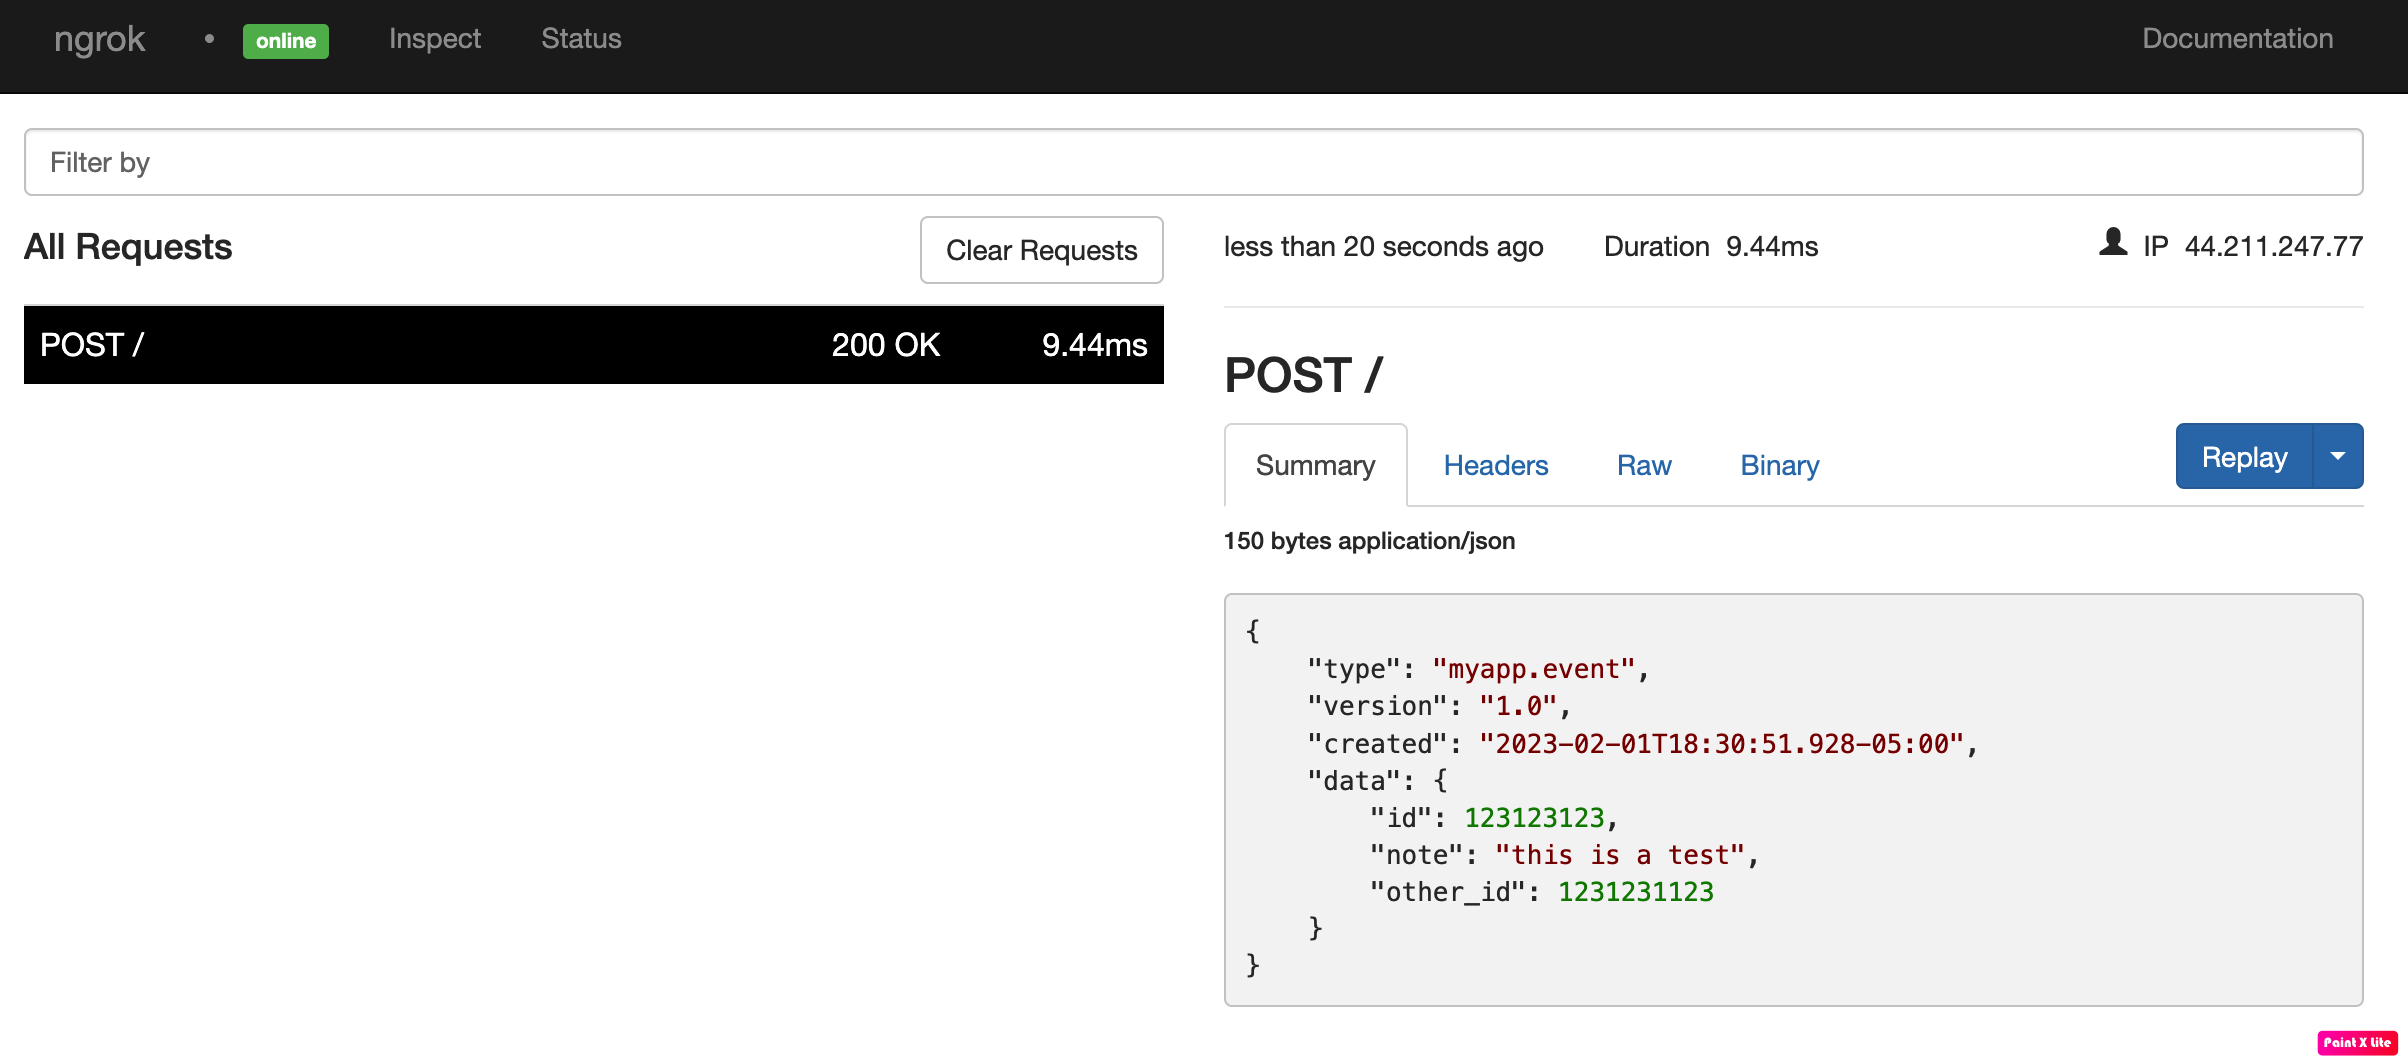
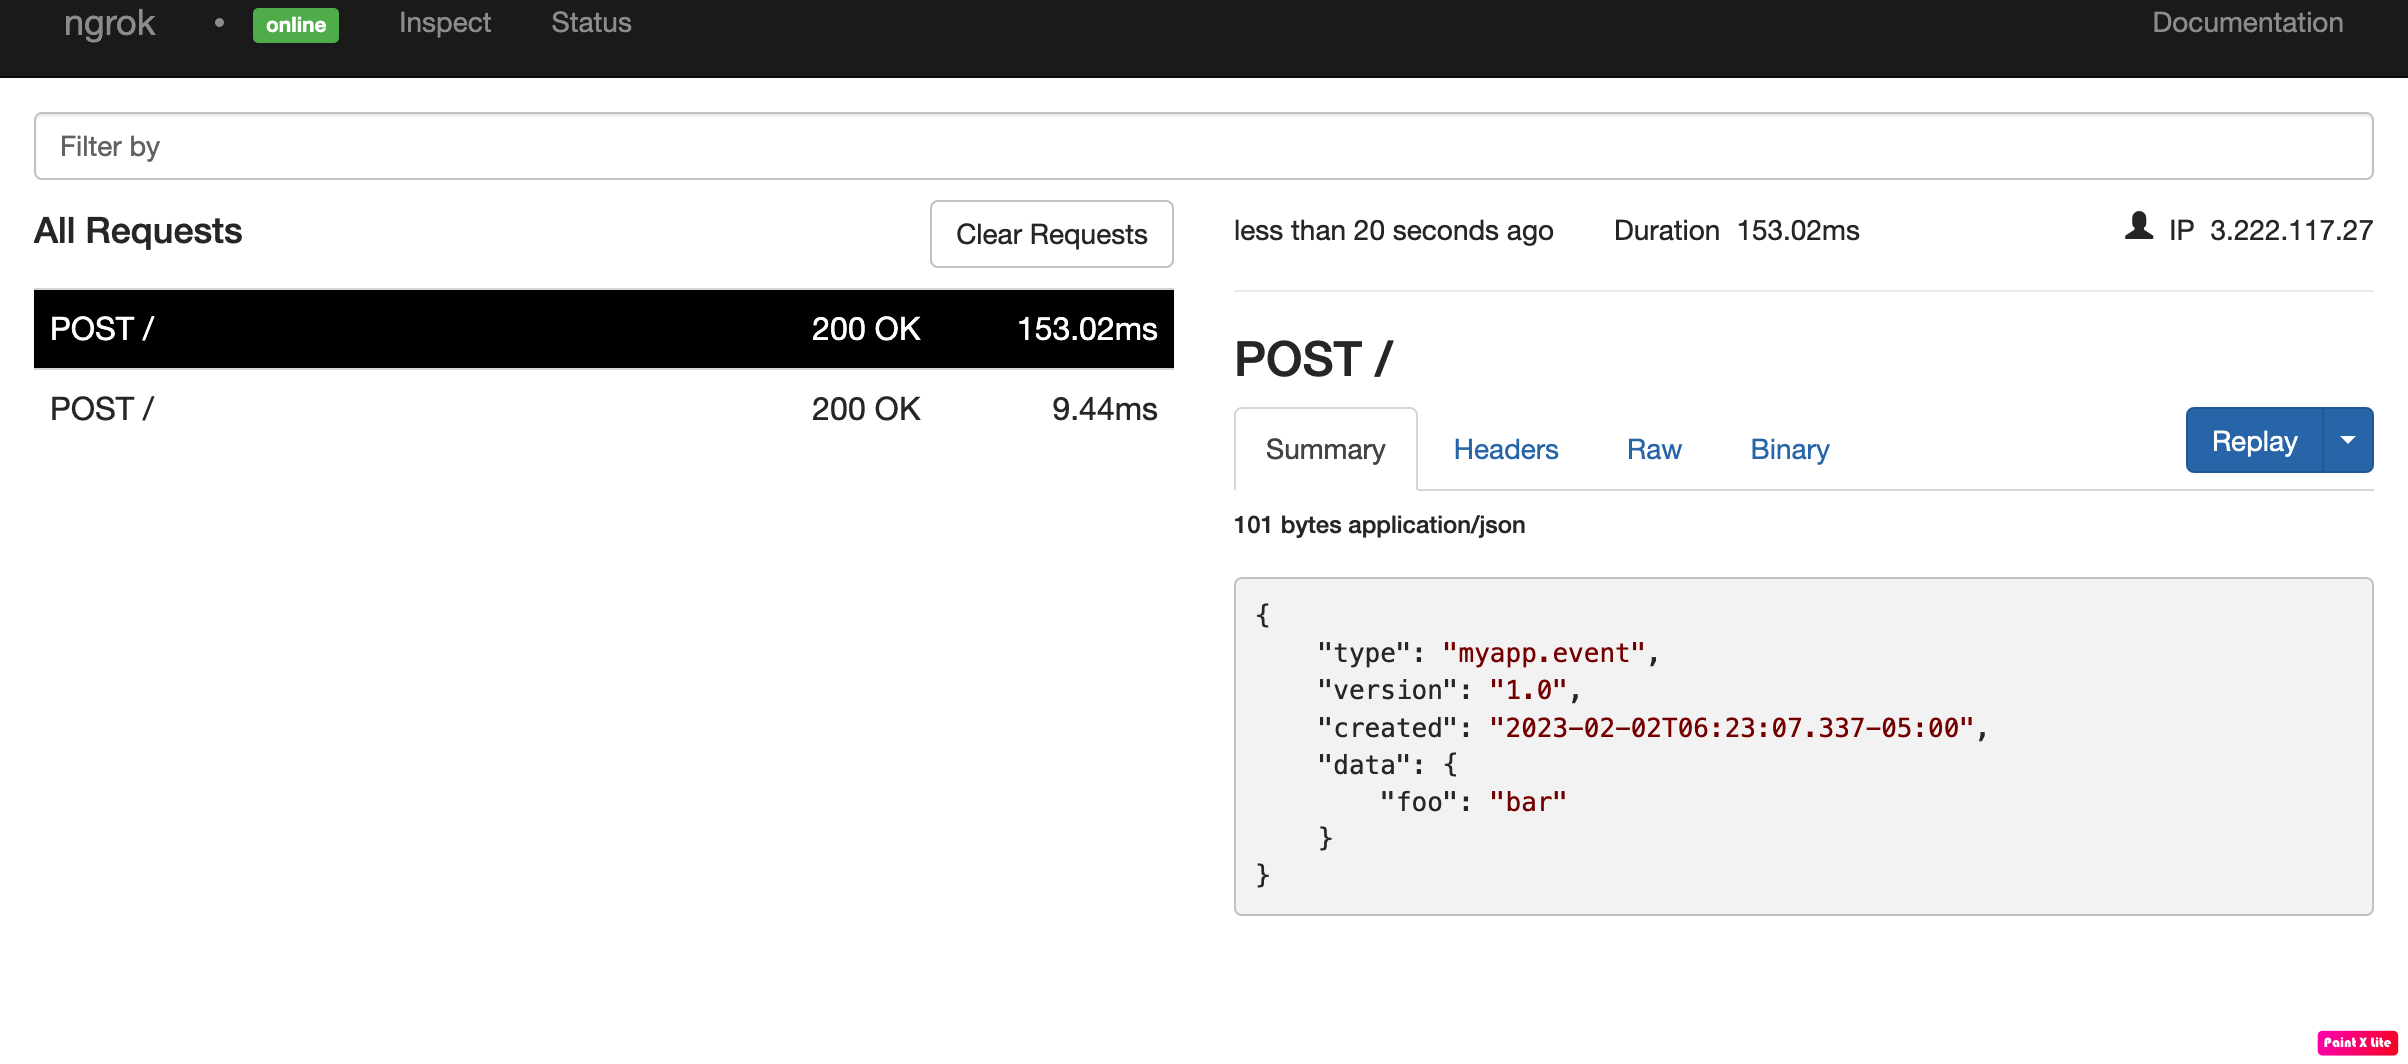
After Grammarly

diff --git a/sidebars.js b/sidebars.js
@@ -78,6 +78,7 @@ const sidebars = {
         { label: 'GitHub', type: 'doc', id: 'integrations/github/webhooks', },
         { label: 'GitLab', type: 'doc', id: 'integrations/gitlab/webhooks', },
         { label: 'Heroku', type: 'doc', id: 'integrations/heroku/webhooks', },
+        { label: 'HostedHooks', type: 'doc', id: 'integrations/hostedhooks/webhooks', },
         { label: 'HubSpot', type: 'doc', id: 'integrations/hubspot/webhooks', },
         { label: 'Hygraph', type: 'doc', id: 'integrations/hygraph/webhooks', },
         { label: 'Instagram', type: 'doc', id: 'integrations/instagram/webhooks', },

diff --git a/docs/integrations/hostedhooks/webhooks.md b/docs/integrations/hostedhooks/webhooks.md
@@ -78,7 +78,7 @@ To register a webhook on your HostedHooks account follow the instructions below:
 
 1. On the **Setup Your Application** page, enter `My App` in the **App Name** field and then click **Save App**.
 
-1. On the app page, click **Create Your Webhook Event** (Step 1), enter `myapp.event` in the **Event Type** field, and then click **Savve Webhook Event**.
+1. On the app page, click **Create Your Webhook Event** (Step 1), enter `myapp.event` in the **Event Type** field, and then click **Save Webhook Event**.
 
 1. On the app page, click **Create your first Subscriber** (Step 2), enter `My Localhost App` in the **Subscription Name** field, and then click **Save Subscription**.
 
@@ -91,48 +91,43 @@ To register a webhook on your HostedHooks account follow the instructions below:
 
 1. Click the left arrow to go back to the app page and then click **Subscribe to a webhook event** (Step 4).
 
-1. On the **Details** page, select **myapp.event** in the **Subscribed Events** combobox and then click **Add Event**.
+1. On the **Details** page, select **myapp.event** in the **Subscribed Events** selector and then click **Add Event**.
 
 1. Click the left arrow twice to go back to the app page and then click **Send a test webhook message**.
 
     Confirm your localhost app receives the **myapp.event** event notification and logs both headers and body in the terminal.
 
 
-### Run Webhooks with HostedHooks and ngrok
+### Run Webhooks with HostedHooks and ngrok {#run-webhook}
 
-Whenever you post a message to HostedHooks message endpoint passing the **myapp.event** event type inside the body of the request, HostedHooks routes this message to your localhost app through your ngrok URL.
+Whenever you post a message to HostedHooks message endpoint using the value **myapp.event** as the event type inside the body of the request, HostedHooks routes this message to your localhost app through your ngrok URL.
 You can trigger new calls from HostedHooks to your application by following the instructions below.
 
 1. Open a terminal window and run the following command:
     ```bash
     curl --request POST --url https://hostedhooks.com/api/v1/apps/APP_ID/messages
  \
-    --header 'Authorization: Bearer TOKEN' \
+    --header 'Authorization: Bearer API_KEY' \
     --header 'Content-Type: application/json' --data '{
-
+        "data": {
+            "foo": "bar"
+        },
+        "event_type": "myapp.event",
+        "version": "1.0",
+        "event_id": "00001"
     }'
     ```
-    **Note**: Replace the following with values copied on previous steps:
-    - URL: the URL provided by the ngrok agent to expose your application to the internet (i.e. `https://1a2b-3c4d-5e6f-7g8h-9i0j.sa.ngrok.io`).
-    - TOKEN: the Calendly token.
-    - ORGANIZATION_URL: The **current_organization** field you copied before.
-    - USER_URL: The **uri** field you copied before.
-    -
-    
+    **Note**: Replace the following with the corresponding values:
+    - APP_ID: The ID of your application. Copy the value from your app page on HostedHooks, in the **My App** section.
+    - API_KEY: The **API Key** value from the **Settings** page on HostedHooks.
 
-1. On the **New Project** popup, enter a project name and then click **Create Project**.
-
-    Confirm your localhost app receives the create-project event notification and logs both headers and body in the terminal.
+    Confirm your localhost app receives the event notification and logs both headers and body in the terminal.
 
 Optionally, you can verify the log of the webhook call in HostedHooks:
 
-1. In the same browser, access [HostedHooks Developer](https://developer.HostedHooks/).
+1. Access [HostedHooks Dashboard](https://www.hostedhooks.com/), click **Apps** on the left menu, and then click your app tile.
 
-1. On the top menu of the developer site, click **DEVELOPER TOOLS** and then click **Webhooks**.
-
-1. On the **Webhooks** page, click **View logs** close to your webhook.
-
-1. On the **Webhook Logs** page, click **View details** and confirm 
+1. On your app page, scroll down to the **Inbound Messages** section and verify the messages sent to your app.
     ![Webhook Logs](img/ngrok_logs_hostedhooks.png)
 
 
@@ -159,11 +154,11 @@ The ngrok Request Inspector provides a replay function that you can use to test 
 
 1. Click **Replay** to execute the same request to your application or select **Replay with modifications** to modify the content of the original request before sending the request.
 
-1. If you choose to **Replay with modifications**, you can modify any content from the original request. For example, you can modify the **id** field inside the body of the request.
+1. If you choose to **Replay with modifications**, you can modify any content from the original request. For example, you can modify the **type** field inside the body of the request.
 
 1. Click **Replay**.
 
-Verify that your local application receives the request and logs the corresponding information to the terminal.
+Verify that your local application receives the new request and logs the corresponding information to the terminal.
 
 
 ## **Bonus**: Secure webhook requests {#security}
@@ -174,17 +169,18 @@ The ngrok signature webhook verification feature allows ngrok to assert that req
 
 This is a quick step to add extra protection to your application.
 
-1. Access [HostedHooks Developer](https://developer.HostedHooks/).
+1. Access [HostedHooks Dashboard](https://www.hostedhooks.com/), click **Apps** on the left menu, and then click your app tile.
 
-1. On the top menu of the developer site, click **DEVELOPER TOOLS** and then click **Webhooks**.
+1. On the app page, click **View** in the **Subscribers** section and click **View** in the **Endpoints** section.
 
-1. On the **Webhooks** page, click **Copy** to copy the **Secret** value.
+1. On the **Endpoint** page, click **Reveal** in the **Signing Secret** field and copy the value that appears.
 
-1. Restart your ngrok agent by running the command, replacing `{your webhook secret}` with the value you have copied before (See [Integrate ngrok and HostedHooks.](#setup-webhook)):
+1. Restart your ngrok agent by running the command, replacing `{app sign secret}` with the value you copied before:
     ```bash
-    ngrok http 3000 --verify-webhook hostedhooks --verify-webhook-secret {your webhook secret}
+    ngrok http 3000 --verify-webhook hostedhooks --verify-webhook-secret {app sign secret}
     ```
 
-1. Access [HostedHooks](https://HostedHooks/) and create a new project.
+1. Post a new message to the message endpoint of HostedHooks by following the same procedure of the [Run Webhooks with HostedHooks and ngrok](#run-webhook) section.
+    **Tip**: Modify the value of the **event_id** field in the JSON body. This value must be unique per app.
 
 Verify that your local application receives the request and logs information to the terminal.
